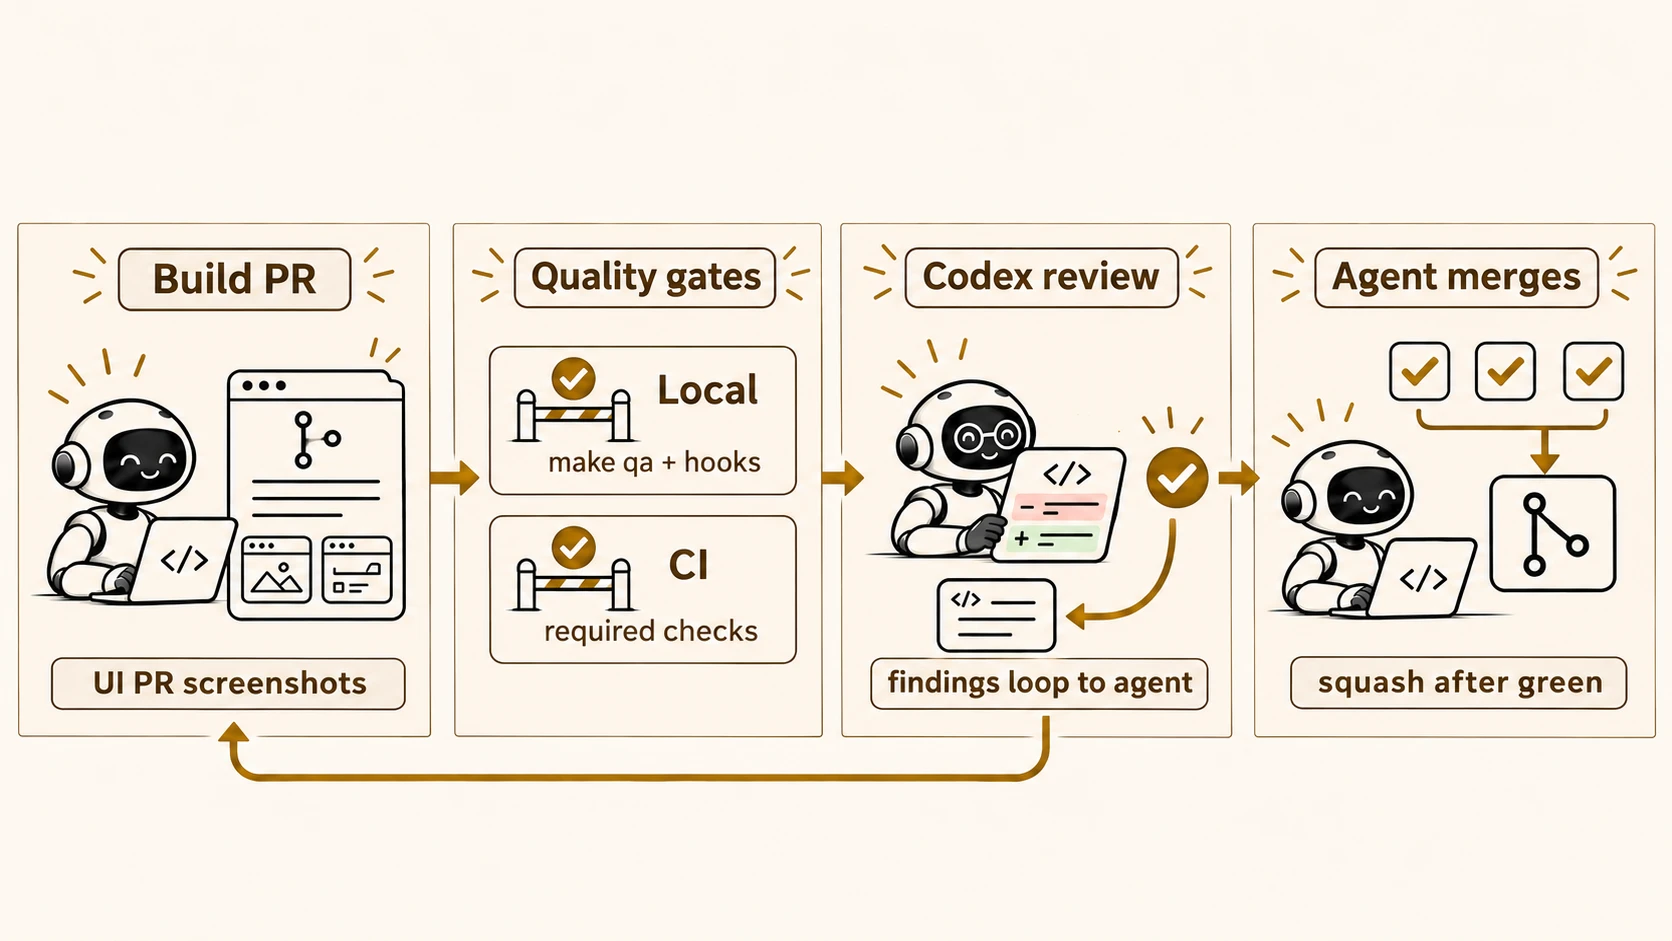
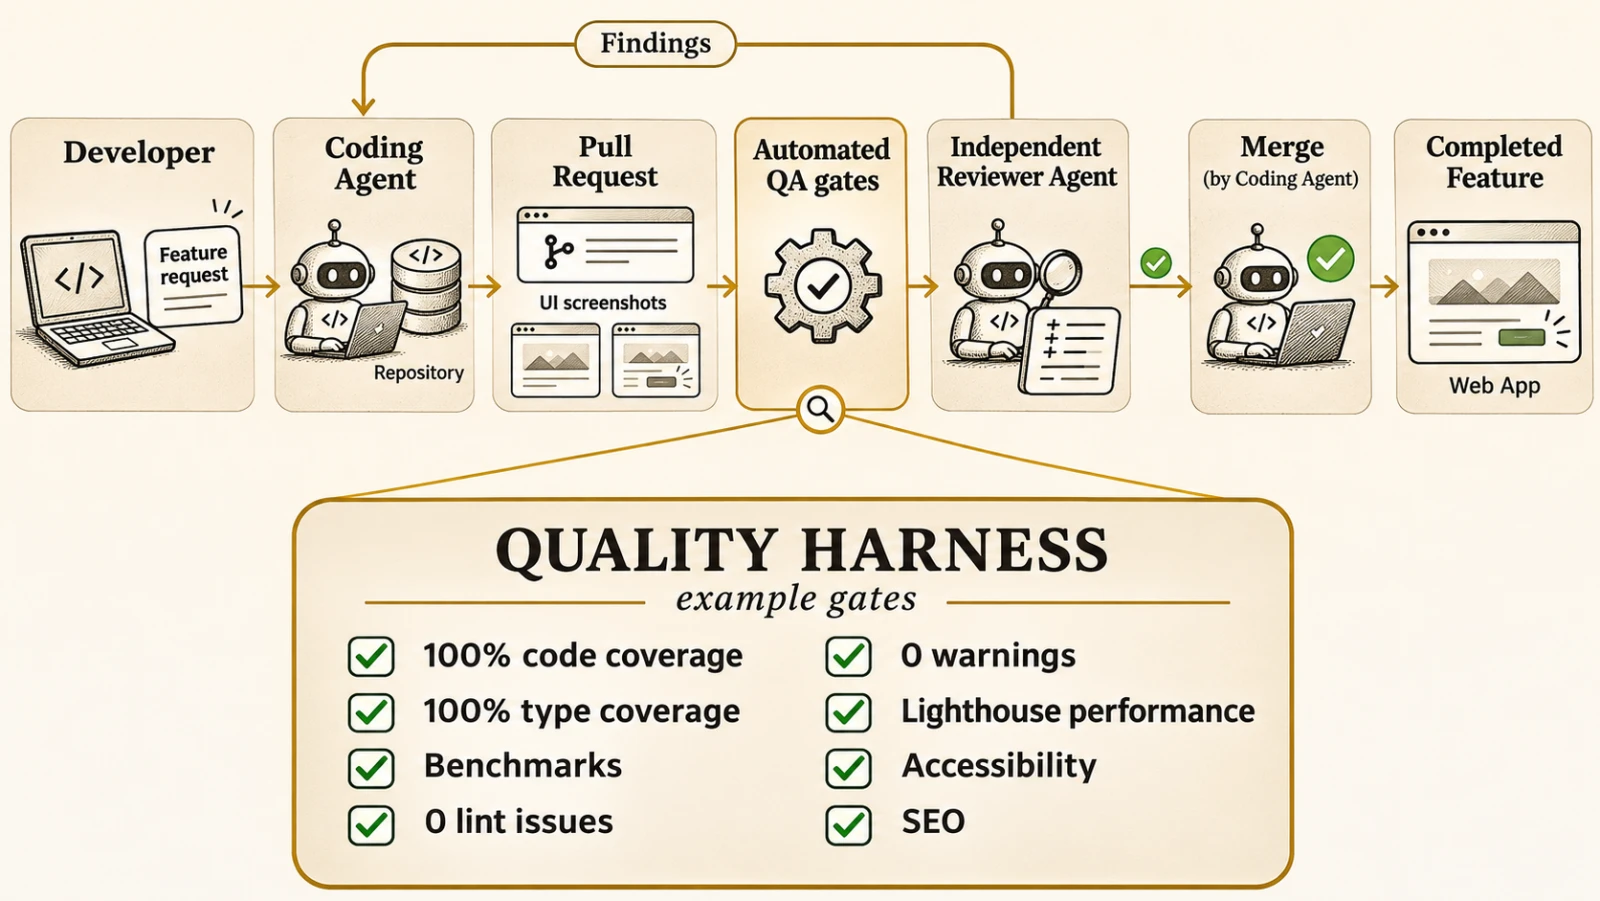
feat(slides): show automated software factory flow

diff --git a/media/README.md b/media/README.md
@@ -75,25 +75,43 @@ text sparse and accurate, with generous whitespace. No overall title or footer.
 
 ## software-factory.webp
 
-The closing example shows a coding agent creating a pull request with UI
-screenshots, local and required CI gates, Codex review with a findings loop,
-and agent-led squash merge after all checks pass. It is based on the public
-chatbot-template repository.
+The closing example shows a feature request flowing through coding, a pull
+request with UI screenshots, automated quality gates, an independent review
+loop, and agent-led merge. A magnified inset makes the example's strict quality
+harness concrete, while the slide notes explain that high-stakes work may keep
+human approval at key steps. It is based on the public chatbot-template
+repository.
 
 ```text
-Create a 16:9 landscape teaching illustration in the deck's warm ivory and
-stone palette, near-black pen-and-ink linework, restrained gold borders and
-arrows, and friendly coding robots. Show a left-to-right autonomous software
-factory with four connected stations. Build PR: a coding agent creates a pull
-request with browser screenshot thumbnails; label "UI PR screenshots". Quality
-gates: two checked lanes labelled "Local", "make qa + hooks", "CI", and
-"required checks". Codex review: an independent robot reviewer studies a diff;
-a findings card loops back to the coding agent; a thumbs-up passes forward;
-label "findings loop to agent". Agent merges: a coding agent completes a Git
-branch merge after green check marks; label "squash after green". Use exactly
-these station headings: "Build PR", "Quality gates", "Codex review", "Agent
-merges". Keep the composition readable and balanced, with ample whitespace.
-No overall title, footer, logo, gradient, or watermark.
+Create a polished 16:9 landscape editorial infographic for a software
+engineering presentation, with warm ivory canvas, warm stone panels,
+near-black pen-and-ink linework, restrained deep-gold hairlines and arrows,
+refined serif headings, and clear sans-serif labels. Crisp high contrast,
+readable at 880×495 pixels, generous whitespace, consistent visual weight.
+
+Show one clear left-to-right causal flow across the upper half: developer
+submits a card labelled “Feature request” → a coding agent works in a repository
+→ a pull request appears with two tiny browser screenshot thumbnails labelled
+“UI screenshots” → automated QA gates → an independent reviewer agent checks
+the diff. A small “Findings” arrow loops from reviewer back to coding agent.
+From the reviewer, a clear forward arrow labelled with a green check leads to
+the coding agent merging; at far right, show the completed feature running in
+a small web app. Keep every other arrow flowing left-to-right. No human should
+appear at review or verification.
+
+In the lower half, add a prominent, clean zoom-in inset attached to the
+automated QA stage by a fine gold leader line and magnifier cue. Inset heading
+exactly “QUALITY HARNESS”; subheading exactly “example gates”. Inside, show
+exactly eight large, neatly aligned checklist items in two columns: “100% code
+coverage”; “100% type coverage”; “Benchmarks”; “0 lint issues”; “0 warnings”;
+“Lighthouse performance”; “Accessibility”; “SEO”. Use one restrained check
+icon per item. Spelling must be exact. The callout should look like a compact
+quality checklist and feel strict, not like a dashboard. Make the entire image
+a single coherent infographic.
+
+No overall title, no footer, no disclaimer or other added text, no logos, no
+gradients, no watermark. Do not show a human review stage, queues, bottlenecks,
+or unrelated panels.
 ```
 
 ## Agentic stack diagrams
